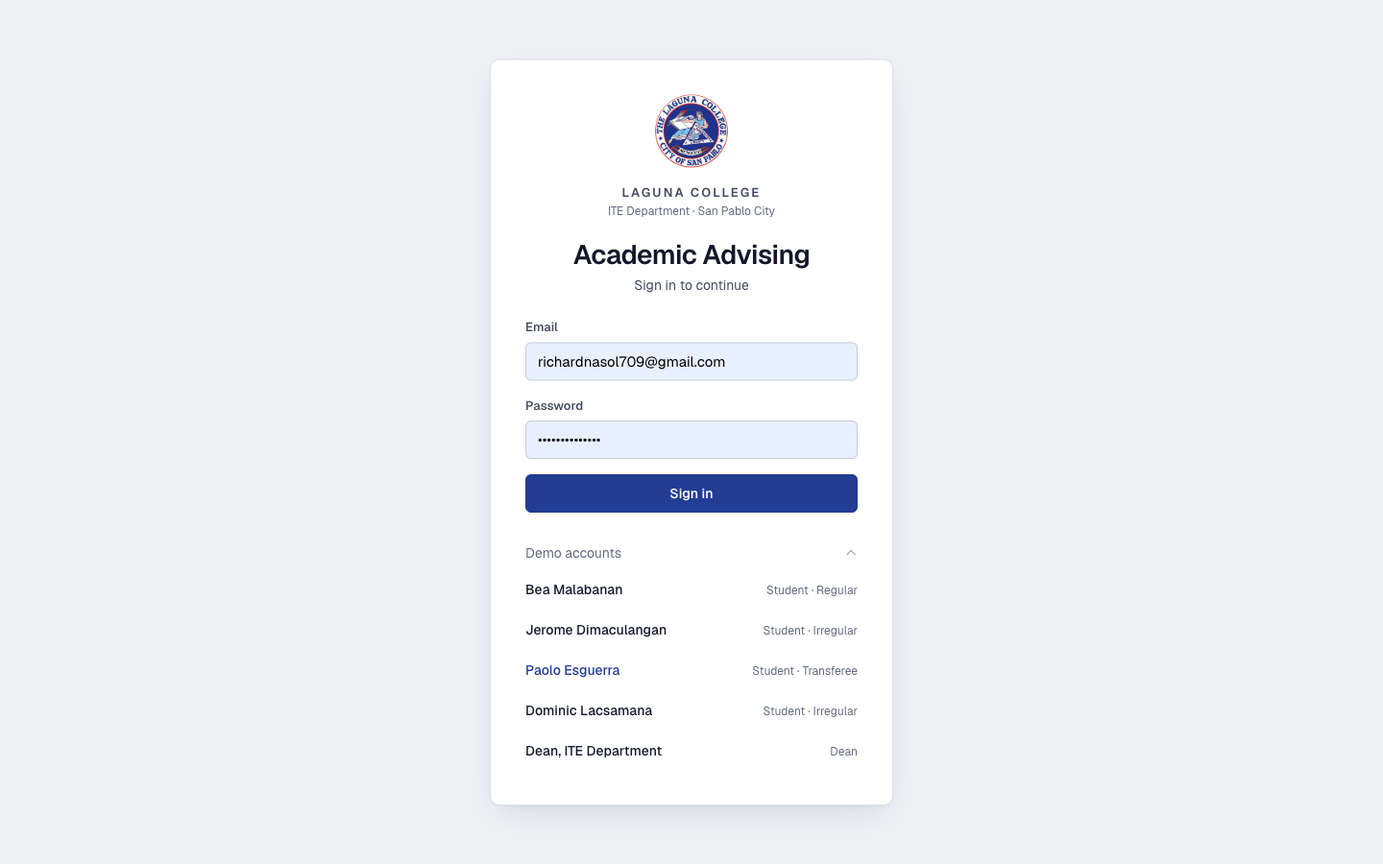
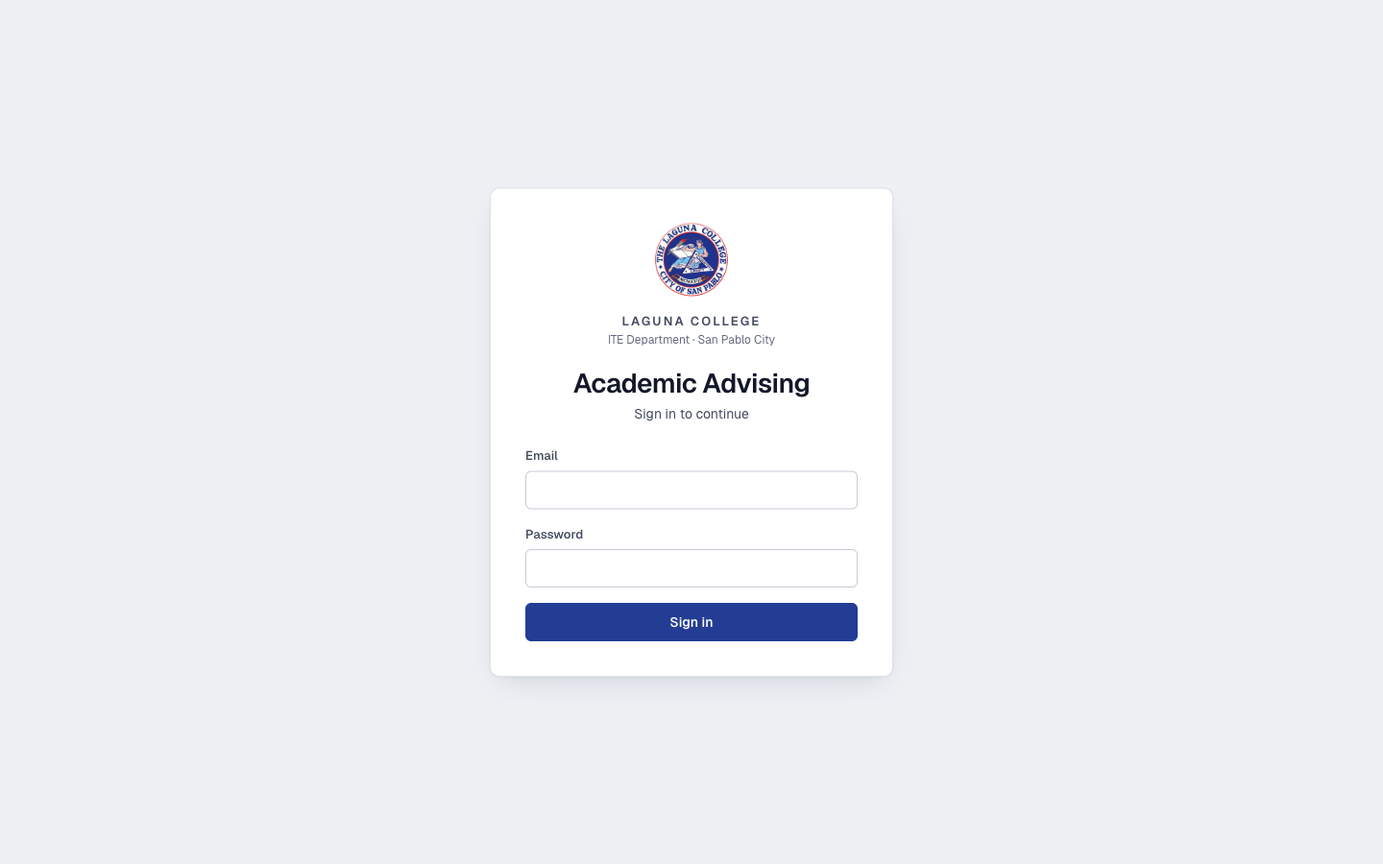
Retake prototype screenshots without demo markers; hide unused Section filter

Changed region(s): [[0.3438, 0.2178, 0.6562, 0.8711], [0.4688, 0.0933, 0.5312, 0.1867]]

diff --git a/src/pages/dean/ScanGrades.tsx b/src/pages/dean/ScanGrades.tsx
@@ -256,7 +256,7 @@ export function ScanGrades({ open, onClose, student }: { open: boolean; onClose:
         {login.password ? (
           <>
             <p className="text-sm text-ink-2">Give these to the student. The password is shown only once.</p>
-            {!live && <p className="mt-1 text-xs text-ink-3">Demo: sample credentials only. No account is created.</p>}
+            {!live && <p data-demo-only className="mt-1 text-xs text-ink-3">Demo: sample credentials only. No account is created.</p>}
             <dl className="mt-4 space-y-3 rounded-lg bg-sunken p-4">
               <div>
                 <dt className="text-xs text-ink-3">Email</dt>
@@ -350,7 +350,7 @@ export function ScanGrades({ open, onClose, student }: { open: boolean; onClose:
             <button className="font-medium text-ink-2 underline-offset-4 hover:text-ink hover:underline" onClick={manual}>
               Enter manually
             </button>
-            <Link to={`/dean/sample-report/${student?.id ?? 'new'}`} target="_blank" className="font-medium text-ink-2 underline-offset-4 hover:text-ink hover:underline">
+            <Link data-demo-only to={`/dean/sample-report/${student?.id ?? 'new'}`} target="_blank" className="font-medium text-ink-2 underline-offset-4 hover:text-ink hover:underline">
               Sample report
             </Link>
           </div>

diff --git a/src/pages/dean/DeanStudents.tsx b/src/pages/dean/DeanStudents.tsx
@@ -149,13 +149,14 @@ export function DeanStudents() {
         onChange={(v) => update({ year: v })}
         options={[{ value: '', label: 'All year levels' }, ...years.map((y) => ({ value: y, label: yearName(y) }))]}
       />
-      <Select
-        label="Section"
-        value={f.section}
-        onChange={(v) => update({ section: v })}
-        disabled={sections.length === 0}
-        options={sections.length ? [{ value: '', label: 'All sections' }, ...sections.map((s) => ({ value: s, label: `Section ${s}` }))] : [{ value: '', label: 'No sections recorded' }]}
-      />
+      {sections.length > 0 && (
+        <Select
+          label="Section"
+          value={f.section}
+          onChange={(v) => update({ section: v })}
+          options={[{ value: '', label: 'All sections' }, ...sections.map((s) => ({ value: s, label: `Section ${s}` }))]}
+        />
+      )}
       <label className="inline-flex h-9 items-center gap-2 text-sm whitespace-nowrap text-ink-2">
         <input type="checkbox" checked={f.issues} onChange={(e) => update({ issues: e.target.checked })} className="h-4 w-4 accent-[var(--seal)]" />
         Needs update

diff --git a/src/layouts/AppShell.tsx b/src/layouts/AppShell.tsx
@@ -138,7 +138,7 @@ function UserBlock({ compact }: { compact?: boolean }) {
           <div className="truncate text-sm font-semibold">{s.name}</div>
           <div className="truncate text-xs text-ink-3">
             {ROLE_LABEL[s.role]}
-            {state.mode === 'demo' ? ' · Demo' : ''}
+            {state.mode === 'demo' ? <span data-demo-only> · Demo</span> : ''}
           </div>
         </div>
       </div>
@@ -166,6 +166,7 @@ function UserBlock({ compact }: { compact?: boolean }) {
             }}
             aria-label="Reset demo data"
             title="Reset demo data"
+            data-demo-only
           >
             <ArrowCounterClockwiseIcon size={16} />
           </button>

diff --git a/src/pages/dean/AddStudent.tsx b/src/pages/dean/AddStudent.tsx
@@ -89,7 +89,7 @@ export function AddStudent({ open, onClose, onScan }: { open: boolean; onClose: 
         }
       >
         <p className="text-sm text-ink-2">Give these to the student. The password is shown only once.</p>
-        {!live && <p className="mt-1 text-xs text-ink-3">Demo: sample credentials only. No account is created.</p>}
+        {!live && <p data-demo-only className="mt-1 text-xs text-ink-3">Demo: sample credentials only. No account is created.</p>}
         <dl className="mt-4 space-y-3 rounded-lg bg-sunken p-4">
           <div>
             <dt className="text-xs text-ink-3">Email</dt>

diff --git a/src/pages/SignIn.tsx b/src/pages/SignIn.tsx
@@ -123,7 +123,7 @@ export function SignIn() {
 
           {/* Demo accounts exist only when Firebase is not configured. */}
           {!liveAvailable && (
-          <details className="group mt-8">
+          <details data-demo-only className="group mt-8">
             <summary className="flex cursor-pointer list-none items-center justify-between text-sm text-ink-3 hover:text-ink-2 [&::-webkit-details-marker]:hidden">
               Demo accounts
               <CaretDownIcon size={14} className="transition-transform duration-200 group-open:rotate-180" aria-hidden />

diff --git a/src/data/seed.ts b/src/data/seed.ts
@@ -243,7 +243,7 @@ export function seedAdvising(students: Student[]): Record<string, AdvisingRecord
         kind: 'approved',
         at: at('2026-10-02T10:41:00+08:00'),
         subjectIds: ids(BSCS_2018, ['FL 111', 'ITE P306', 'ITE P402', 'ITE P403', 'GE 109']),
-        remarks: 'Retake ITE P306 (UW) and FL 111 (DRP). ITE P405 moves to the next term to keep the normal load of 15 units. FL 112 follows once FL 111 is passed.',
+        remarks: 'Retake ITE P306 and FL 111. Take ITE P405 next sem.',
       },
     },
   }

diff --git a/docs/screenshots/UI-FIGURES.md b/docs/screenshots/UI-FIGURES.md
@@ -1,105 +1,175 @@
 # Prototype Screenshots: Figure Guide
 
-**For:** the Claude app (or any writer) placing the prototype screenshots into Chapters I–III.
+Captions for the screenshots in this folder, in workflow order. Same content as the shared figures page. All names, student numbers and grades are synthetic test data.
 
-**How to use:** attach this file and the PNG files in this folder. Each entry gives the file name, a suggested figure title, the user role, the step in the process, and what the screen shows. Write the figure descriptions in the paper's style (formal, academic, future tense: "the dean will…", "the system will…"). Renumber the figures to fit the paper.
+## Access
 
-**Data shown:** all names, student numbers, and grades are synthetic test data, not real student records. The screenshots come from the offline presentation version (`npm run dev`), so "Demo" appears beside the user's role in the sidebar.
+Both roles sign in to the same page. There is no self-registration.
 
----
+**Figure 1. Sign-in page** (`01-sign-in.png`)  
+Role: Dean and student · Process: Access  
+The dean and the students will sign in with an email and password. Students will not register themselves; their accounts will be created by the dean.
 
-## Overall flow shown by the figures
+## Dean: adding a student and reading the Report of Grades
 
-Dean signs in → adds the student (and the student's login) → scans the Report of Grades → checks and corrects the rows read → saves → the system evaluates the record (statuses, prerequisites, regular or irregular) → the dean reviews the prescribed or recommended load, adjusts it, allows a blocked subject with a reason if needed, writes remarks → confirms (regular) or approves (irregular) → prints the pre-enrollment form for the Registrar. The student signs in to see the evaluation status, the final load and remarks, grades, curriculum progress, and explanations from the assistant.
+The dean starts every evaluation. The student does not submit a request.
 
-The student never sees a proposed or recommended load. Only the load the dean has confirmed or approved appears on the student's side.
+**Figure 2. Evaluation queue** (`02-dean-requests.png`)  
+Role: Dean · Process: Start of the workflow  
+The dean’s home page will list the students being evaluated in the active term, grouped into For confirmation (regular), For review (irregular), Needs year standing, Decided and All. Each row will show the program and curriculum, year standing, status and issues such as failed or INC subjects.
 
----
+**Figure 3. Student records** (`03-dean-student-records.png`)  
+Role: Dean · Process: Record management  
+All active students will be listed by program and year standing, with search and filters. Each row will have an archive action, and archived students will be kept in a separate Archive view.
 
-## A. Sign-in
+**Figure 4. Adding a student** (`04-dean-add-student.png`)  
+Role: Dean · Process: Student creation  
+The dean will enter the student number, name, program, entry academic year and year standing. The curriculum version will be assigned automatically from the entry academic year. An email may be entered to create the student’s login.
 
-| File | Suggested title | Role | Process step | What the screen shows |
-|---|---|---|---|---|
-| `01-sign-in.png` | Sign-in page | Dean and student | Access | The institutional sign-in card (email and password). There is no sign-up; accounts are created by the dean. In the presentation version, "Demo accounts" lists sample dean and student accounts for one-click sign-in. |
+**Figure 5. Student login created** (`05-dean-student-login-created.png`)  
+Role: Dean · Process: Account creation  
+The system will show the student’s email and a temporary password once, for the dean to give to the student.
 
-## B. Dean: adding a student and scanning the Report of Grades
+**Figure 6. Capturing the Report of Grades** (`06-dean-scan-grade-record.png`)  
+Role: Dean · Process: Grade-record scanning  
+The dean will photograph or upload the printed Report of Grades issued by the Registrar, one image per page. Grades may also be entered manually.
 
-| File | Suggested title | Role | Process step | What the screen shows |
-|---|---|---|---|---|
-| `02-dean-requests.png` | Dean's evaluation queue | Dean | Start of the advising workflow | The dean's home page ("Requests"). Students being evaluated this term are grouped into tabs: For confirmation (regular), For review (irregular), Needs year standing, Decided, and All. Each row shows the program and curriculum, year standing, regular or irregular status, and issues such as failed or INC subjects. The **Add student** button starts a new evaluation. |
-| `03-dean-add-student.png` | Adding a student | Dean | Student creation | The dean enters the student number, name, program, and entry academic year. The curriculum version is assigned automatically from the entry year (shown below the field). Year standing may be set now or later. An optional email creates the student's login. |
-| `04-dean-student-login-created.png` | Student account created by the dean | Dean | Account creation | The email and a temporary password are shown once for the dean to give to the student. Students do not register themselves. (In the presentation version these are sample credentials only.) |
-| `05-dean-scan-grade-record.png` | Capturing the Report of Grades | Dean | Grade-record scanning | The dean takes a photo or chooses an image of the printed Report of Grades issued by the Registrar (one photo per page). Grades may also be entered manually. |
-| `05a-sample-report-of-grades.png` | Sample Report of Grades (synthetic) | Dean | Test document | The synthetic Report of Grades used to demonstrate scanning. Marked "Sample · synthetic data · not an official document". |
-| `06-dean-scan-review.png` | Checking the grades read by the system | Dean | Grade verification | The photo is shown beside the rows the system read: subject (matched to the student's curriculum), term, and grade. The dean checks and corrects each row before saving. The footer counts the rows and how many need checking. |
-| `06b-dean-scan-row-to-check.png` | A row flagged for checking | Dean | Grade verification | A highlighted row the dean must confirm, here "Code used twice in the prospectus" (ITE P119 appears twice in the BSIT 2025–2026 prospectus). Other flags are "Code partly read", "Grade not read", "Term not read", and "Listed twice". Lines that could not be matched are listed under "Not recognised". The photo is not stored. |
+**Figure 7. Checking the grades read by the system** (`07-dean-scan-review.png`)  
+Role: Dean · Process: Grade verification  
+The image will be shown beside the rows read by the system: the subject matched to the student’s curriculum, the term and the grade. The dean will check and correct each row before saving. The image will not be stored.
 
-## C. Dean: evaluation and subject load
+**Figure 8. Row flagged for checking** (`08-dean-scan-row-to-check.png`)  
+Role: Dean · Process: Grade verification  
+Rows that need the dean’s attention will be highlighted with the reason, here a subject code used twice in the prospectus (ITE P119). Other reasons include a partly read code, a grade or term that was not read, and a subject listed twice.
 
-| File | Suggested title | Role | Process step | What the screen shows |
-|---|---|---|---|---|
-| `07-dean-evaluation-irregular.png` | Evaluation result of an irregular student | Dean | Rule-based evaluation → recommended load | After saving, the system evaluates the record. Mika Santos (BSIT 2025–2026, Second Year) is **Irregular** because ITE C103b was failed (73) and ITE P119 is INC ("Needs attention"). The **proposed load** lists eligible and offered subjects in priority order, with the failed subject first as a retake, kept within the normal load of the term (23 units). The curriculum explorer on the right shows every subject's status. |
-| `08-dean-curriculum-explorer-blocked.png` | Blocked subjects in the curriculum explorer | Dean | Prerequisite checking | Second-year subjects that need ITE C103b are blocked, with the reason ("Prerequisite unresolved: ITE C103b failed"). Eligible subjects can be added; blocked subjects show **Allow**. |
-| `09-dean-allow-blocked-subject.png` | Allowing a blocked subject as an exception | Dean | Prerequisite allowance | The dean allows ITE P104 for this student as a special case. A reason is required and is kept in the activity log. |
-| `10-dean-load-with-allowance.png` | Load after the allowance | Dean | Load adjustment | ITE P104 is added to the load and marked "Allowed by the dean" with the reason. |
-| `11-dean-subject-detail-prerequisite-chain.png` | Subject details and prerequisite chain | Dean | Explanation of a block | The subject panel for ITE P106: status (Blocked by Prerequisite), the prerequisite as printed in the prospectus, which prerequisite is not satisfied, and the chain back to the root cause (ITE C103b failed). |
-| `12-dean-load-approved.png` | Approved subject load | Dean | Approval | After the dean writes remarks and clicks **Approve load**, the load is locked and stamped "Approved". The dean can now print the pre-enrollment form or reopen the decision. |
-| `13-pre-enrollment-form.png` | Pre-enrollment form | Dean (also printable by the student) | Output | The printable form: student details, curriculum version, year standing, classification, approved subjects and units, the dean's remarks, and signature lines ("Evaluated and approved by: Dean, ITE Department" and "Received by: Registrar"). The student brings it to the Registrar. The layout is a placeholder until the official form is supplied. |
-| `14-dean-reopen-decision.png` | Reopening a decision | Dean | Correction | A decided load can be reopened with a reason (for example, a wrong subject was approved). The printed form becomes invalid, and the reason is logged. |
-| `15-dean-requests-for-confirmation.png` | Regular students waiting for confirmation | Dean | Queue | The "For confirmation" tab lists regular students whose prescribed loads only need the dean's confirmation. |
-| `16-dean-evaluation-regular-prescribed.png` | Prescribed load of a regular student | Dean | Rule-based evaluation → prescribed load | Carlo Navarro (BSIT 2025–2026, Second Year) is **Regular** (a failed GE 102 was retaken and passed in Summer). The system lists the prescribed subjects for his year standing and term. The button reads **Confirm load**. |
-| `17-dean-load-confirmed-regular.png` | Confirmed load of a regular student | Dean | Confirmation | Liza Macaraig (BSIT 2018–2019, Fourth Year) has a confirmed load: the five prescribed fourth-year, first-semester subjects (15 units). |
-| `18-dean-record-update-year-standing.png` | Missing year standing | Dean | Record update | Rommel Tolentino has no recorded year standing, so the status is **Undetermined** and no load is proposed. Subjects that require a year standing show "Record update". The dean sets the year standing to continue. |
-| `19-dean-review-transfer-credit.png` | A case that requires the dean's decision | Dean | Dean review | Paolo Esguerra (transferee) has a credited subject (ITE P101) that is not yet validated. It is listed under **Dean review**, where the dean records a decision. Until then, subjects that need ITE P101 stay blocked. |
+## Dean: evaluation and subject load
 
-## D. Dean: student records, curriculum, term, and activity
+The rules evaluate the record; the dean makes the final decision.
 
-| File | Suggested title | Role | Process step | What the screen shows |
-|---|---|---|---|---|
-| `20-dean-student-records.png` | Student records | Dean | Record management | All active students grouped by program and year standing, with search and filters. Each row has an **Archive** action. The **Archive** button at the top opens the archived students. |
-| `21-dean-student-profile-academic-record.png` | Student profile and academic record | Dean | Record management | The academic profile (program, entry academic year, curriculum version, year standing), the evaluation result, and the full academic record per term. The dean can add an entry, complete an INC, or remove an entry. **Archive** is available here. |
-| `22-dean-archive-student.png` | Archiving a student | Dean | Archive | Archiving requires a reason (for example, graduated or transferred). Nothing is deleted. |
-| `23-dean-archived-students.png` | Archived students | Dean | Archive and restore | Archived students are kept separately and can be restored at any time. |
-| `24-dean-curricula-structure.png` | Curriculum structure | Dean | Curriculum reference | The official prospectus encoded in the system (BSCS and BSIT, 2018–2019 and 2025–2026): subjects per year and semester, units, and prerequisites. "None" means the prospectus says none; "-" means the cell is blank. |
-| `25-dean-curricula-current-offerings.png` | Current subject offerings | Dean | Offerings for the term | The dean marks which subjects are offered in the active term. Only offered subjects can be placed in a load. |
-| `26-dean-edit-prerequisites.png` | Editing a subject's prerequisites | Dean | Curriculum maintenance | The dean can update a prerequisite (for example, after a curriculum memo), with an optional approval reference. The change is logged. |
-| `27-dean-start-new-term.png` | Starting a new term | Dean | Active term | The dean sets the active term (First Semester, Second Semester, or Summer, and the academic year). The current term's evaluations are archived and offerings are reset for the new term. |
-| `28-dean-activity-log.png` | Activity log | Dean | Traceability | Every important action, with date, time, and actor: adding a student, encoding scanned grades, allowing a blocked subject with its reason, approving, reopening with its reason, archiving, and restoring. |
+**Figure 9. Evaluation of an irregular student** (`09-dean-evaluation-irregular.png`)  
+Role: Dean · Process: Rule-based evaluation  
+After the grades are saved, the system will evaluate the record against the curriculum and its prerequisites. This student will be classified as irregular because of a failed subject (ITE C103b) and an INC (ITE P119). The proposed load will list eligible and offered subjects in priority order, with the failed subject first as a retake, within the normal load of the term.
 
-## E. Student
+**Figure 10. Blocked subjects** (`10-dean-curriculum-explorer-blocked.png`)  
+Role: Dean · Process: Prerequisite checking  
+Subjects whose prerequisite is not yet satisfied will be shown as blocked, with the reason. Eligible subjects can be added to the load, and blocked subjects will show an Allow option.
 
-| File | Suggested title | Role | Process step | What the screen shows |
-|---|---|---|---|---|
-| `29-student-not-yet-evaluated.png` | Student view before evaluation | Student | Before evaluation | Bea Malabanan has not been evaluated this term. The page shows the term, year standing, and curriculum, with "Not yet evaluated" and a note to bring the Report of Grades to the dean. |
-| `30-student-in-evaluation.png` | Student view during evaluation | Student | During evaluation | Jerome Dimaculangan is "In evaluation". **No subject list is shown yet**; the load appears only after the dean decides. The page also shows subjects that need attention (ITE C103b failed, blocks 14 subjects), a small curriculum map, and suggested questions. |
-| `31-student-grades.png` | Grades monitoring | Student | Grade monitoring | The general average, counts of passed, failed, and INC subjects, curriculum progress in units and percent, and grades per term with remarks. |
-| `32-student-curriculum.png` | Curriculum progress | Student | Curriculum progress | Every subject in the student's curriculum with its status (Completed, Failed, Eligible, Blocked, Not offered) and prerequisites. Filters narrow the list. |
-| `33-student-subject-detail.png` | Why a subject is blocked | Student | Prerequisite explanation | The details of ITE P128: blocked because ITE ELEC 5 is not yet taken, which in turn needs ITE C103b (failed). The **Ask about ITE P128** button opens the assistant. |
-| `34a-student-ask-suggestions.png` | AI assistant: suggested questions | Student | AI-assisted explanation | The assistant page with suggested questions about blocked subjects, missing prerequisites, remaining subjects, the load, and status terms. |
-| `34-student-ask-assistant.png` | AI assistant explaining a result | Student | AI-assisted explanation | The assistant explains why ITE ELEC 5 is blocked, using the rule-based result. When asked to approve an overload, it declines and refers the student to the dean. The note below the input reads "Academic decisions are made by the dean." In the presentation version the answers are generated from the rule-based evaluation; in the deployed version they come from Gemini through Firebase AI Logic. |
-| `35-student-approved-load.png` | Approved load seen by the student | Student | After approval | Dominic Lacsamana sees the dean-approved load, the approval stamp and date, the dean's remarks, and **Print pre-enrollment form**. |
-| `36-student-pre-enrollment-form.png` | Pre-enrollment form printed by the student | Student | Output | The same pre-enrollment form, printed from the student's account. |
+**Figure 11. Allowing a blocked subject** (`11-dean-allow-blocked-subject.png`)  
+Role: Dean · Process: Prerequisite allowance  
+For an exceptional case, the dean will allow a blocked subject for the student. A reason will be required and kept in the activity log.
 
----
+**Figure 12. Load after the allowance** (`12-dean-load-with-allowance.png`)  
+Role: Dean · Process: Load adjustment  
+The allowed subject will be added to the load and marked as allowed by the dean, together with the reason.
 
-## Test data used in the screenshots (synthetic)
+**Figure 13. Prerequisite chain** (`13-dean-subject-detail-prerequisite-chain.png`)  
+Role: Dean · Process: Explanation of a block  
+Opening a subject will show its status, its prerequisite as printed in the prospectus, which prerequisite is not satisfied, and the chain back to the root cause.
 
-These are the demonstration students and what the rule-based evaluation produces for each. All were checked against the encoded prospectus and the active term (First Semester, AY 2026–2027).
+**Figure 14. Approved load** (`14-dean-load-approved.png`)  
+Role: Dean · Process: Approval  
+After adding remarks, the dean will approve the load. The decision will be locked and stamped, and the pre-enrollment form will become available.
 
-| Student | Program and curriculum | Year standing | Scenario | Result shown by the system |
-|---|---|---|---|---|
-| Bea Malabanan | BSCS 2025–2026 | Second Year | All earlier subjects passed; not yet evaluated this term | Not yet evaluated. Once evaluated: Regular, prescribed 8 subjects (23 units). |
-| Jerome Dimaculangan | BSCS 2025–2026 | Second Year | Failed ITE C103b (72) | Irregular. Recommended: ITE C103b retake first, then the current subjects not blocked by it, within 23 units. ITE ELEC 5, ITE P104, and later subjects in the chain are blocked. |
-| Kristine Abrenica | BSIT 2025–2026 | Second Year | INC in ITE C103b | Irregular. INC does not satisfy a prerequisite, so only 4 subjects (11 units) are eligible. |
-| Paolo Esguerra | BSCS 2025–2026 (transferee) | Second Year | Credited subject not yet validated (ITE P101) | Irregular, "Dean review" case. Subjects needing ITE P101 stay blocked until the credit is validated. |
-| Carlo Navarro | BSIT 2025–2026 | Second Year | Failed GE 102, passed it in Summer | Regular; prescribed 8 subjects (23 units). |
-| Hannah Bautista | BSCS 2018–2019 | Third Year | All earlier subjects passed | Regular; prescribed 6 subjects (18 units). |
-| Ramon Gatdula | BSIT 2018–2019 | Fourth Year | All earlier subjects passed | Regular; prescribed 5 subjects (15 units). |
-| Joshua Manalo | BSIT 2025–2026 | First Year | New student, no records | Regular; prescribed first-year, first-semester subjects (26 units). |
-| Rommel Tolentino | BSIT 2018–2019 | Not recorded | Missing year standing | Undetermined; no load until the dean records the year standing. |
-| Angelica Sumulong | BSIT 2018–2019 | Not recorded | Failed ITE C105 and missing year standing | Irregular (the failed subject already establishes it). Eligible and offered subjects are listed; subjects that require a year standing wait for it to be recorded. |
-| Liza Macaraig | BSIT 2018–2019 | Fourth Year | Completed INC (84) | Regular; **confirmed** load of the 5 prescribed subjects (15 units). |
-| Dominic Lacsamana | BSCS 2018–2019 | Fourth Year | ITE P303 failed then passed in Summer; UW in ITE P306; DRP in FL 111 | Irregular; **approved** load: FL 111 and ITE P306 as retakes, then ITE P402, ITE P403, GE 109 (15 units). ITE P405 moves to the next term to keep the normal load. FL 112 stays blocked until FL 111 is passed. |
-| Mika Santos | BSIT 2025–2026 | Second Year | Added and scanned during the demonstration: failed ITE C103b (73), INC in ITE P119 | Irregular; approved load of 6 subjects (17 units) including ITE P104 allowed by the dean with a reason. |
+**Figure 15. Pre-enrollment form** (`15-pre-enrollment-form.png`)  
+Role: Dean and student · Process: Output  
+The printable form will list the student’s details, curriculum version, year standing, classification, the approved subjects and units, and the dean’s remarks, with signature lines for the dean and for the Registrar. The student will bring this form to the Registrar.
 
-**Rules applied:** passing grade 75; UW counts as failed and may be retaken; DRP is not completed and may be retaken when offered; INC does not satisfy a prerequisite until a final grade is recorded; all listed prerequisites are required; year standing is set by the dean; the curriculum version follows the entry academic year (AY 2025–2026 or later uses 2025–2026).
+**Figure 16. Reopening a decision** (`16-dean-reopen-decision.png`)  
+Role: Dean · Process: Correction  
+A decided load can be reopened with a reason. The previously printed form will no longer be valid, and the reason will be kept in the activity log.
+
+**Figure 17. Regular students for confirmation** (`17-dean-requests-for-confirmation.png`)  
+Role: Dean · Process: Queue  
+Regular students will appear under For confirmation, since their prescribed load only needs the dean’s confirmation.
+
+**Figure 18. Prescribed load of a regular student** (`18-dean-evaluation-regular-prescribed.png`)  
+Role: Dean · Process: Rule-based evaluation  
+For a regular student, the system will list the prescribed subjects for the recorded year standing and the active term. The dean will confirm the load.
+
+**Figure 19. Confirmed load** (`19-dean-load-confirmed-regular.png`)  
+Role: Dean · Process: Confirmation  
+A confirmed load of a regular student under the 2018–2019 curriculum: the five prescribed fourth-year, first-semester subjects.
+
+**Figure 20. Missing year standing** (`20-dean-record-update-year-standing.png`)  
+Role: Dean · Process: Record update  
+When the year standing is not recorded, the status will remain undetermined and no load will be proposed until the dean records it. Subjects that require a year standing will be marked for record update.
+
+**Figure 21. Case for the dean’s decision** (`21-dean-review-transfer-credit.png`)  
+Role: Dean · Process: Dean review  
+A credited subject of a transferee that has not been validated will be listed for the dean’s review. Until it is validated, subjects that depend on it will stay blocked.
+
+## Dean: records, curriculum, term and activity
+
+Nothing is deleted; every important action is logged.
+
+**Figure 22. Student profile and academic record** (`22-dean-student-profile-academic-record.png`)  
+Role: Dean · Process: Record management  
+The profile will show the program, entry academic year, curriculum version, year standing and evaluation result, and the full academic record per term. The dean may add an entry, complete an INC or archive the student here.
+
+**Figure 23. Archiving a student** (`23-dean-archive-student.png`)  
+Role: Dean · Process: Archive  
+Archiving will require a reason, such as transferring to another school. The record will be kept.
+
+**Figure 24. Archived students** (`24-dean-archived-students.png`)  
+Role: Dean · Process: Archive and restore  
+Archived students will be listed separately and can be restored.
+
+**Figure 25. Curriculum structure** (`25-dean-curricula-structure.png`)  
+Role: Dean · Process: Curriculum reference  
+The official BSCS and BSIT prospectuses (2018–2019 and 2025–2026) will be encoded with units and prerequisites. “None” will mean the prospectus states none; “-” will mean the cell is blank.
+
+**Figure 26. Current subject offerings** (`26-dean-curricula-current-offerings.png`)  
+Role: Dean · Process: Offerings  
+The dean will mark which subjects are offered in the active term. Only offered subjects can be placed in a load.
+
+**Figure 27. Editing prerequisites** (`27-dean-edit-prerequisites.png`)  
+Role: Dean · Process: Curriculum maintenance  
+When the department revises a prerequisite, the dean will update it with an optional approval reference. The change will be logged.
+
+**Figure 28. Starting a new term** (`28-dean-start-new-term.png`)  
+Role: Dean · Process: Active term  
+The dean will set the active term: First Semester, Second Semester or Summer, and the academic year. The current term’s evaluations will be archived and the offerings reset.
+
+**Figure 29. Activity log** (`29-dean-activity-log.png`)  
+Role: Dean · Process: Traceability  
+Important actions will be recorded with date, time and actor, such as adding a student, encoding scanned grades, allowing a subject with its reason, approving a load and archiving a student.
+
+## Student
+
+The student sees only the load the dean has confirmed or approved.
+
+**Figure 30. Before evaluation** (`30-student-not-yet-evaluated.png`)  
+Role: Student · Process: Before evaluation  
+Before the dean evaluates the student, the page will show the active term, year standing and curriculum, with a note to bring the Report of Grades to the dean.
+
+**Figure 31. During evaluation** (`31-student-in-evaluation.png`)  
+Role: Student · Process: During evaluation  
+While the dean is evaluating, the student will see “In evaluation” and no subject list. The page will also show subjects that need attention and a curriculum progress map.
+
+**Figure 32. Grades monitoring** (`32-student-grades.png`)  
+Role: Student · Process: Grade monitoring  
+The student will see the general average, counts of passed, failed and INC subjects, curriculum progress in units, and grades per term.
+
+**Figure 33. Curriculum progress** (`33-student-curriculum.png`)  
+Role: Student · Process: Curriculum progress  
+Every subject in the student’s curriculum will be listed with its status and prerequisites, with filters for completed, needs attention, eligible, blocked and not offered.
+
+**Figure 34. Why a subject is blocked** (`34-student-subject-detail.png`)  
+Role: Student · Process: Prerequisite explanation  
+Opening a subject will show why it is blocked and the chain of prerequisites behind it, with an option to ask the assistant about it.
+
+**Figure 35. AI assistant** (`35-student-ask-suggestions.png`)  
+Role: Student · Process: AI-assisted explanation  
+The assistant page will offer suggested questions about blocked subjects, missing prerequisites, remaining subjects, the subject load and status terms.
+
+**Figure 36. Assistant explaining a result** (`36-student-ask-assistant.png`)  
+Role: Student · Process: AI-assisted explanation  
+The assistant will explain results already determined by the rule-based evaluation. When asked for a decision, such as an overload, it will decline and refer the student to the dean.
+
+**Figure 37. Approved load seen by the student** (`37-student-approved-load.png`)  
+Role: Student · Process: After approval  
+After the dean’s decision, the student will see the approved subjects, the date, the dean’s remarks and the option to print the pre-enrollment form.
+
+**Figure 38. Pre-enrollment form printed by the student** (`38-student-pre-enrollment-form.png`)  
+Role: Student · Process: Output  
+The student will be able to print the same pre-enrollment form from the student account.
